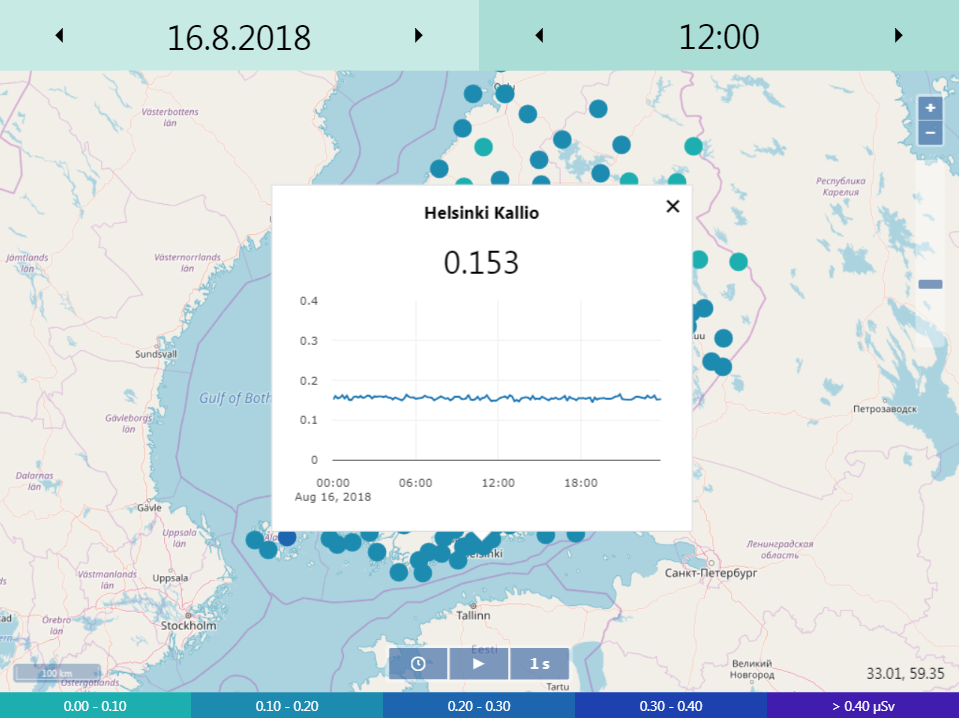
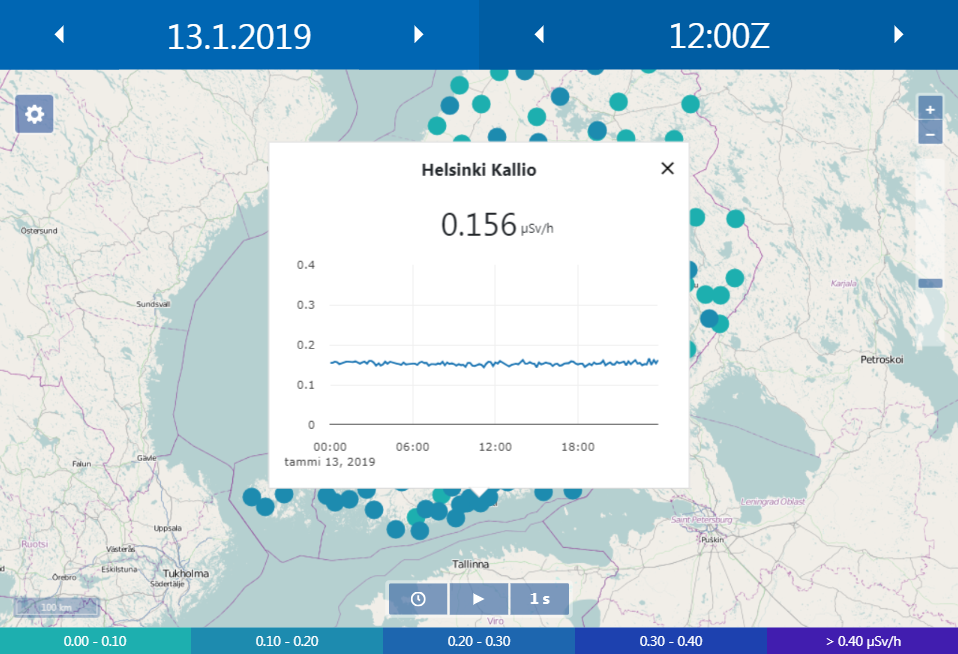
Update documentation

diff --git a/README.md b/README.md
@@ -20,7 +20,9 @@ The map displays results for a certain date and time. Controls for changing the 
 
 The application also comes with a set of basic media controls located at the bottom of the screen. They change the selected date or time with a set interval.
 
-The application is usable on both mobile devices and desktop computers. Some features such as the media controls are not available on very small screens. Known unsupported browsers include all versions of Internet Explorer.
+The application is configurable via a settings menu. Open the settings menu by clicking the cog button in the upper-left corner. You can for example change the application's language and datetime formats.
+
+The application is usable on both mobile devices and desktop computers. Some features such as the media controls are not available on very small screens. Automatic scaling is not implemented for large high resolution screens. Zoom the web page manually to improve usability. Known unsupported browsers include all versions of Internet Explorer.
 
 ## 2. Building the application
 
@@ -34,27 +36,29 @@ The application is usable on both mobile devices and desktop computers. Some fea
 
 ## 3. Hosting the application
 
-Build the application and point a web server to the "dist" directory. For local testing use for example the Web Server for Chrome -plugin. For public hosting refer to your web server of choice's documentation. 
+Build the application and point a web server to the "dist" directory. For local testing use for example the Web Server for Chrome -plugin. For public hosting refer to your web server of choice's documentation.
 
 The application by default gets its map tiles from OpenStreetMap's public servers. For public hosting you should configure the application to use local tiles.
 
 ## 4. Getting data
 
-The application does not contain any data by default. Scripts for fetching and processing data are in the "dist/scripts" directory. Install all dependencies before running the scripts.
+The application does not contain any data by default. Scripts for fetching and processing data are in the "src/scripts" directory. Install all Python dependencies before running the scripts.
+
+Create a copy of the file "settings.example.json" in the "src/scripts" directory and rename it "settings.json". Change the value of the "data_directory" key to the path of the directory where you want data to be stored. For example: "/var/www/html/opendata/data". Note that the path does not end in a forward slash. The data directory should be located next to the "index.html" file at the root of the opendata web hosting directory. You can alternatively create a symlink that points to another location.
 
 "get_data.py" is the main script. It takes one required argument for the type of data to get. This is currently always "dose_rates". Running the script without other arguments fetches the most recent results. Use the "--span" option and datetime arguments to fetch many results. Use the "--help" option for detailed technical instructions.
 
 To keep the application up-to-date schedule the "get_data.py" script. The following crontab configuration runs the script every 10 minutes. The configuration changes directory to the scripts directory. This is due to relative paths in the scripts. Task Scheduler provides similar functionality on Windows.
 
-`*/10 * * * * cd /var/www/html/opendata/scripts/; /bin/python3 /var/www/html/opendata/scripts/get_data.py dose_rates`
+`*/10 * * * * cd /home/lma/opendata/src/scripts/; /bin/python3 /home/lma/opendata/src/scripts/get_data.py dose_rates`
 
-The "get_data.py" script performs requests to FMI's open data API. The requests are unauthenticated by default. If you wish to use authenticated requests, you need an API key. Register at https://ilmatieteenlaitos.fi/rekisteroityminen-avoimen-datan-kayttajaksi to get an API key. Rename the file "server-settings.example.json" in the "dist" directory to "server-settings.json". Change the placeholder value in the file to your API key. To enable authentication use the "-a" or "--auth" option.
+The "get_data.py" script performs requests to FMI's open data API. The requests are unauthenticated by default. If you wish to use authenticated requests, you need an API key. Register at https://ilmatieteenlaitos.fi/rekisteroityminen-avoimen-datan-kayttajaksi to get an API key. Change the value of the "fmi_api_key" key in the previously created "settings.json" file to your API key. To enable authentication use the "-a" or "--auth" option.
 
 The "get_data.py" script also generates time series data and updates a metadata file. It performs these tasks when it fetches new results. To regenerate all time series data run the "time_series.py" script. To update the metadata file run the "metadata.py" script. You do not need to run these scripts under normal operation.
 
 ## 5. Dependencies
 
-See the file "package.json" for a list of library dependencies.
+See the file "package.json" for a list of JavaScript dependencies.
 
 npm (included with Node.js)<br>
 Python 3<br>
